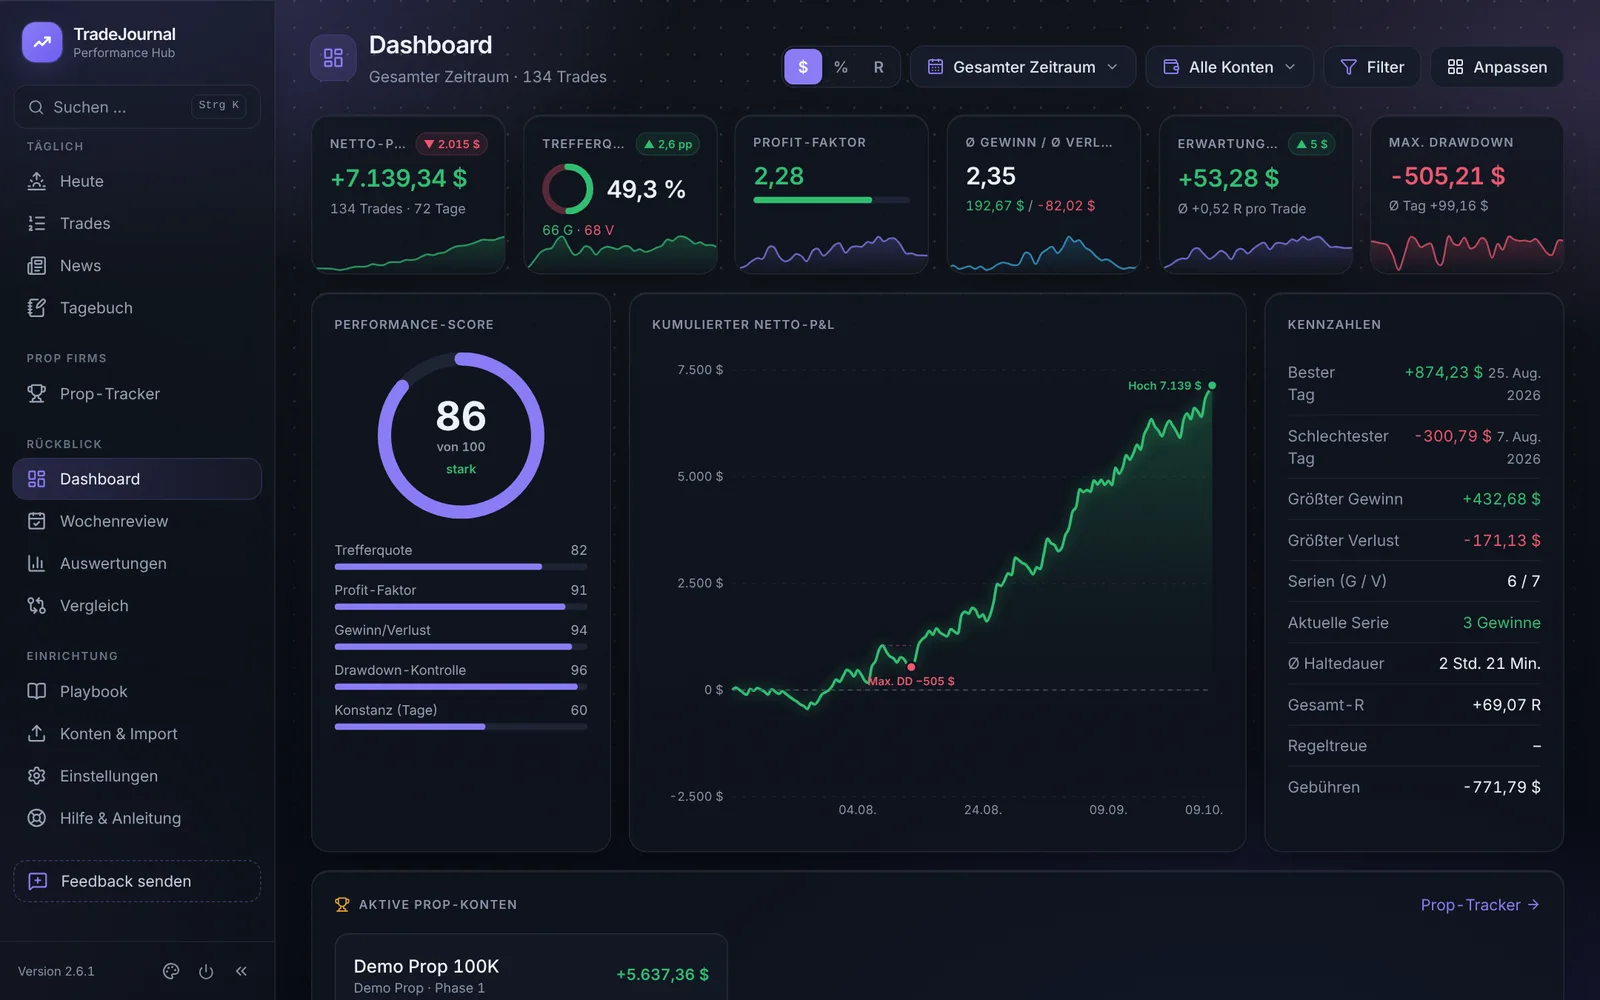
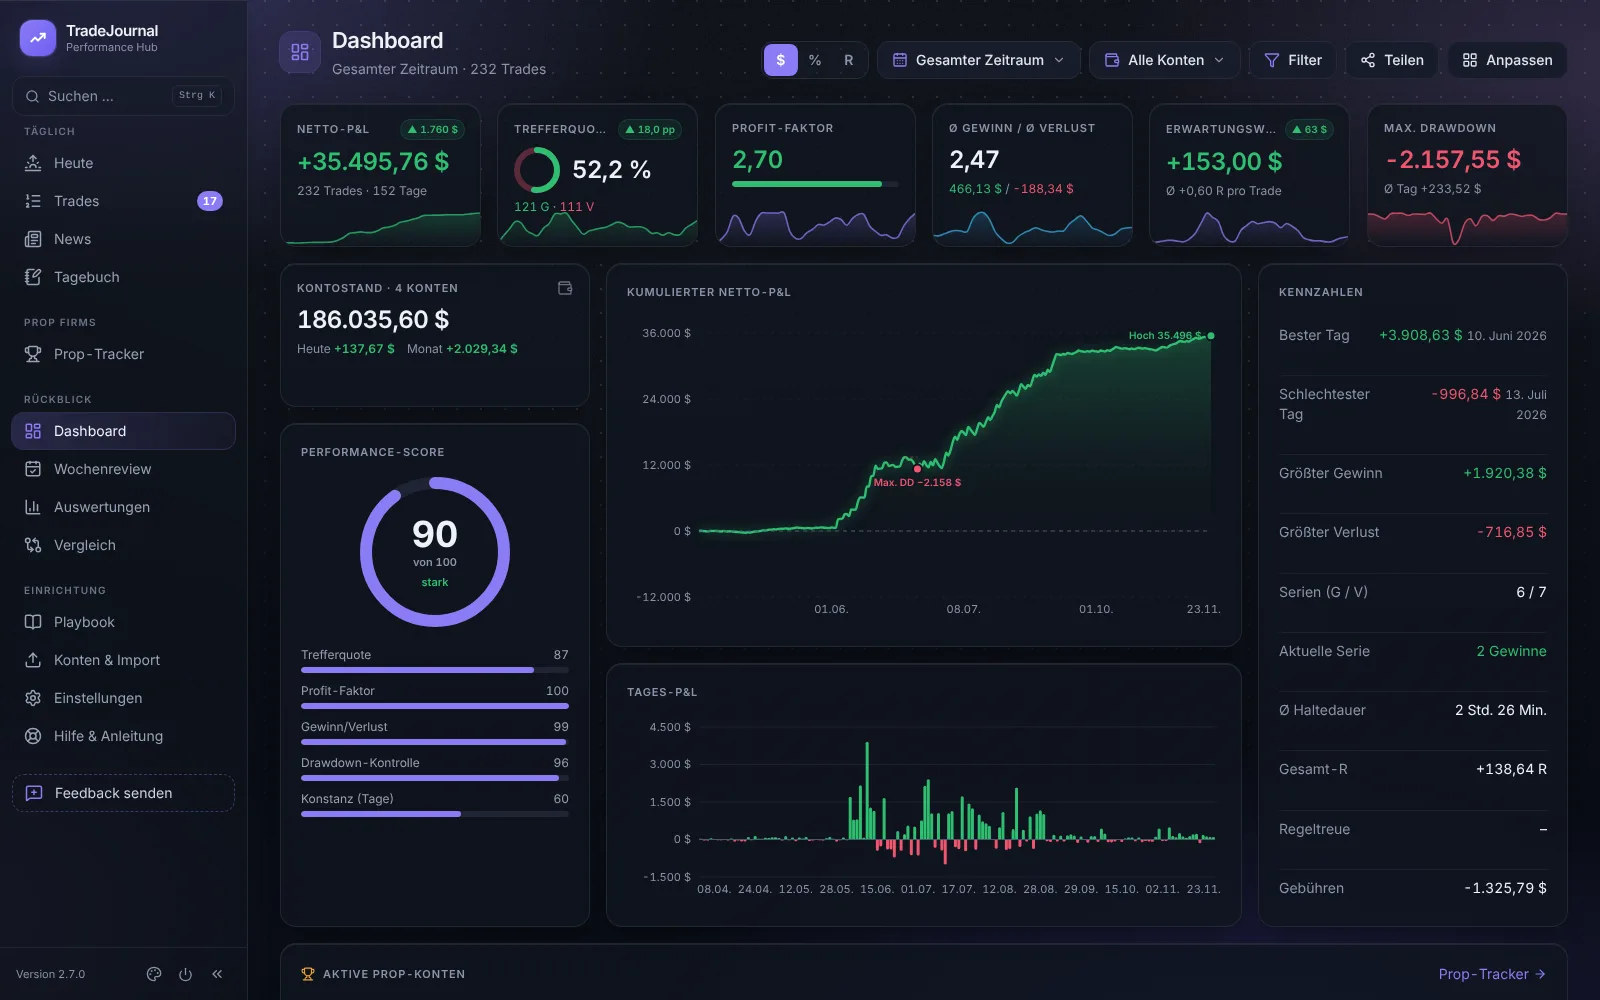
Webseite: Backtesting-Abschnitt entfernt, Dashboard-Bild und README für 2.7.0
Claude-Session: https://claude.ai/code/session_01P4mfED2TNex1LrnYMaSEZ4

diff --git a/docs/index.html b/docs/index.html
@@ -4,7 +4,7 @@
 <meta charset="utf-8">
 <meta name="viewport" content="width=device-width, initial-scale=1, viewport-fit=cover">
 <title>TradeJournal – Trading-Journal für MetaTrader 5 und Prop-Firm-Konten</title>
-<meta name="description" content="Kostenloses Trading-Journal für MetaTrader 5: automatischer Import, Prop-Firm-Tracker, Auswertungen, Tagebuch und Backtesting. Läuft lokal, deine Daten bleiben auf deinem PC.">
+<meta name="description" content="Kostenloses Trading-Journal für MetaTrader 5: automatischer Import, Prop-Firm-Tracker, Auswertungen und Tagebuch. Läuft lokal, deine Daten bleiben auf deinem PC.">
 <meta property="og:title" content="TradeJournal">
 <meta property="og:description" content="Kostenloses Trading-Journal für MetaTrader 5 und Prop-Firm-Konten.">
 <meta property="og:image" content="img/dashboard.webp">
@@ -12,7 +12,7 @@
 <link rel="preconnect" href="https://fonts.googleapis.com">
 <link rel="stylesheet" href="https://fonts.googleapis.com/css2?family=Inter:wght@400;500;600;700;800&family=JetBrains+Mono:wght@500;600&display=swap">
 <style>
-/* Layout: Produktseite in einer Spalte – Kopf mit Download, großes App-Bild, Funktionen im Raster, Backtesting mit Bildern, Installation in 3 Schritten */
+/* Layout: Produktseite in einer Spalte – Kopf mit Download, großes App-Bild, Funktionen im Raster, Installation in 3 Schritten */
 :root {
   --bg: #0a0c13; --panel: #121621; --panel2: #171c29; --line: #232a3b;
   --fg: #e8ebf3; --muted: #8e97ab; --accent: #8b6cff; --accent2: #5b3fd9;
@@ -96,7 +96,7 @@ footer p { margin: 0; max-width: 70ch; }
 <nav>
   <div class="wrap">
     <a class="logo" href="#"><i aria-hidden="true"><svg width="16" height="16" viewBox="0 0 24 24" fill="none" stroke="#fff" stroke-width="2.6" stroke-linecap="round" stroke-linejoin="round"><path d="M3 17l6-6 4 4 8-8"/><path d="M15 7h6v6"/></svg></i>TradeJournal</a>
-    <div class="links"><a href="#funktionen">Funktionen</a><a href="#prop">Prop-Firms</a><a href="#backtesting">Backtesting</a><a href="#installation">Installation</a></div>
+    <div class="links"><a href="#funktionen">Funktionen</a><a href="#prop">Prop-Firms</a><a href="#installation">Installation</a></div>
     <a class="btn primary sm" href="https://github.com/TheMadMav/TradeJournal/releases/latest">Download</a>
   </div>
 </nav>
@@ -108,7 +108,7 @@ footer p { margin: 0; max-width: 70ch; }
     <p class="lead">TradeJournal holt deine Trades automatisch aus MetaTrader 5, zeigt dir, wo du Geld verdienst und wo du es verlierst, und behält deine Prop-Firm-Regeln im Blick. Alles läuft auf deinem eigenen PC.</p>
     <div class="ctas">
       <a class="btn primary" href="https://github.com/TheMadMav/TradeJournal/releases/latest"><svg width="18" height="18" viewBox="0 0 24 24" fill="none" stroke="currentColor" stroke-width="2.2" stroke-linecap="round" stroke-linejoin="round"><path d="M12 3v12M7 10l5 5 5-5M5 21h14"/></svg>Kostenlos herunterladen</a>
-      <a class="btn" href="#backtesting">Backtesting ansehen</a>
+      <a class="btn" href="#funktionen">Funktionen ansehen</a>
     </div>
     <div class="meta"><span>Für Windows 10 und 11</span><span>Keine Anmeldung</span><span>Daten bleiben auf deinem PC</span><span>Automatische Updates</span></div>
     <div class="shot"><img src="img/dashboard.webp" width="1600" height="1000" alt="Dashboard von TradeJournal mit Netto-Gewinn, Trefferquote, Performance-Score und kumulierter Kurve (Beispieldaten)"></div>
@@ -160,71 +160,6 @@ footer p { margin: 0; max-width: 70ch; }
       </ul>
     </div>
     <img src="img/journal.webp" width="1600" height="1000" loading="lazy" alt="Kalender im Tagebuch mit Tagesergebnissen und Wochensummen (Beispieldaten)">
-  </div>
-</section>
-
-<section id="backtesting">
-  <div class="wrap">
-    <div class="bt-head">
-      <span class="pill">Neu · kommt mit dem nächsten Update</span>
-      <h2 style="margin-top:14px">Backtesting im Replay</h2>
-      <p class="sub">Spiel den Markt Minute für Minute ab, zeichne wie in TradingView und handle im Ablauf, ohne die Zukunft zu sehen. Jeder Trade wird bewertet wie ein echter und landet in einer eigenen Auswertung, getrennt von deinen Live-Trades.</p>
-    </div>
-    <div class="bt-rows">
-      <div class="split">
-        <div class="txt">
-          <span class="badge">Replay &amp; Chart</span>
-          <h2>Handeln wie live, nur in der Vergangenheit</h2>
-          <ul class="check">
-            <li><b>Echte Minutendaten</b> für Forex, Gold und Indizes, Kerzen passend zu TradingView</li>
-            <li><b>Schrittweite frei wählbar:</b> auf dem M5-Chart nur eine Minute oder gleich eine Stunde weiter</li>
-            <li><b>Springen</b> zur nächsten Session oder zu einer Uhrzeit</li>
-            <li><b>25 Zeichenwerkzeuge</b> mit Vorlagen, Magnet und Long-/Short-Werkzeug</li>
-            <li><b>Market, Limit und Stop</b> mit SL, TP und Break-even direkt im Chart verschieben</li>
-          </ul>
-        </div>
-        <img src="img/bt-workspace.webp" width="1600" height="1000" loading="lazy" alt="Backtesting-Arbeitsplatz mit USDJPY im 5-Minuten-Chart, offener Long-Position, Zeichnungen, Volumenprofil und Trade-Liste (Beispieldaten)">
-      </div>
-      <div class="split rev">
-        <div class="txt">
-          <span class="badge">Multi-Timeframe &amp; Level</span>
-          <h2>Zwei Charts, ein Ablauf</h2>
-          <ul class="check">
-            <li><b>Zweiter Chart</b> mit eigener Zeiteinheit läuft im Replay synchron mit</li>
-            <li><b>Zeichnungen, Positionslinien und Indikatoren</b> wahlweise auf beide Charts übernehmen</li>
-            <li><b>Prime Levels:</b> Vortageshoch/-tief, runde Zahlen, POC und Volumenprofil je Tag</li>
-            <li><b>EMA, MA und SMA</b> mit Farbe, Länge und Linienstil frei einstellbar</li>
-          </ul>
-        </div>
-        <img src="img/bt-mtf.webp" width="1600" height="1000" loading="lazy" alt="Zwei Charts nebeneinander: links 1 Stunde mit Vortageslevel und POC-Linien, rechts 5 Minuten mit Volumenprofil (Beispieldaten)">
-      </div>
-      <div class="split">
-        <div class="txt">
-          <span class="badge">Trade-Bewertung</span>
-          <h2>Jeder Trade wird ehrlich bewertet</h2>
-          <ul class="check">
-            <li><b>Bewertungsfenster</b> direkt nach dem Ausstieg, mit Screenshot vom Chart</li>
-            <li><b>Emotion, Überzeugung und Sterne</b> genau wie bei deinen Live-Trades</li>
-            <li><b>Regel-Check</b> für deine Strategie und deine allgemeinen Regeln</li>
-            <li><b>Notizen und Erkenntnisse</b>, damit du aus jedem Trade lernst</li>
-          </ul>
-        </div>
-        <img src="img/bt-trade.webp" width="1600" height="1000" loading="lazy" alt="Bewertungsfenster eines Backtest-Trades mit Chart-Screenshot, Emotionen, Notizen und Regel-Check (Beispieldaten)">
-      </div>
-      <div class="split rev">
-        <div class="txt">
-          <span class="badge">Auswertung</span>
-          <h2>Ein eigenes Dashboard fürs Backtesting</h2>
-          <ul class="check">
-            <li><b>Alle Kennzahlen</b> wie im Journal: Netto, Trefferquote, Profit-Faktor, R und Drawdown</li>
-            <li><b>Nach Zeit, Session, Strategie und Tags</b> auswerten</li>
-            <li><b>Sitzungen vergleichen</b> oder alle zusammen ansehen</li>
-            <li><b>Sauber getrennt:</b> Backtests vermischen sich nie mit deinen Live-Konten</li>
-          </ul>
-        </div>
-        <img src="img/bt-report.webp" width="1600" height="1000" loading="lazy" alt="Auswertung einer Backtesting-Sitzung mit Netto-P&amp;L, Trefferquote, Performance-Score und Kurve (Beispieldaten)">
-      </div>
-    </div>
   </div>
 </section>
 

diff --git a/README.md b/README.md
@@ -1,1 +1,15 @@
 # TradeJournal
+
+Kostenloses Trading-Journal für MetaTrader 5 mit Prop-Firm-Tracker. Läuft lokal auf deinem Windows-PC, deine Daten bleiben bei dir.
+
+- **Download:** [neueste Version](https://github.com/TheMadMav/TradeJournal/releases/latest)
+- **Webseite:** https://themadmav.github.io/TradeJournal/
+
+## Installation
+1. `TradeJournal-x.y.z.zip` herunterladen und mit „Alle extrahieren“ entpacken.
+2. Doppelklick auf „TradeJournal“. Beim ersten Start fragt Windows einmal nach.
+3. Die Checkliste unter „Hilfe & Anleitung“ führt durch Konto, MT5-Dienst und Zeitzone.
+
+Updates findet das Journal selbst. Dabei wird nur gelesen, welche Version aktuell ist.
+
+TradeJournal ist ein Werkzeug zur Dokumentation und Auswertung, keine Anlageberatung. Nicht verbunden mit MetaQuotes oder einer Prop-Firm.
